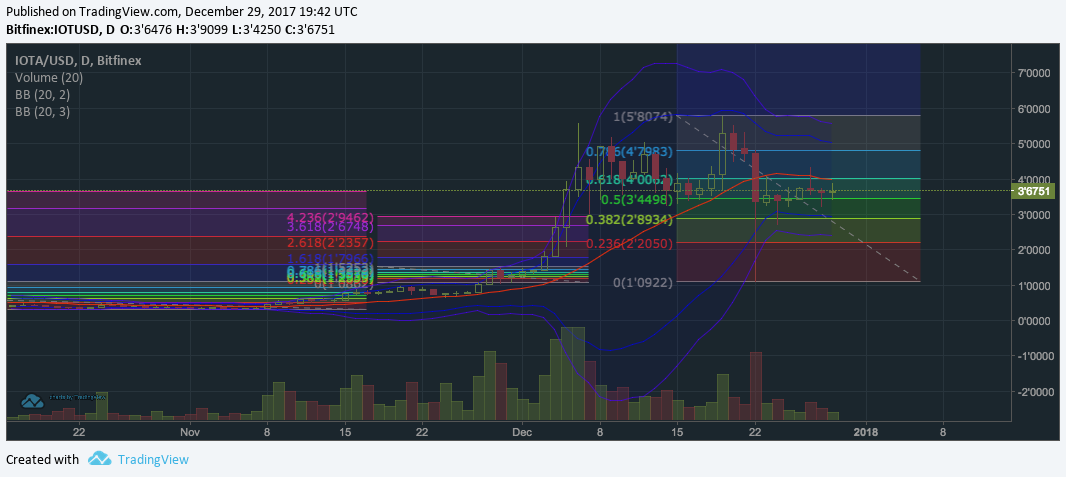
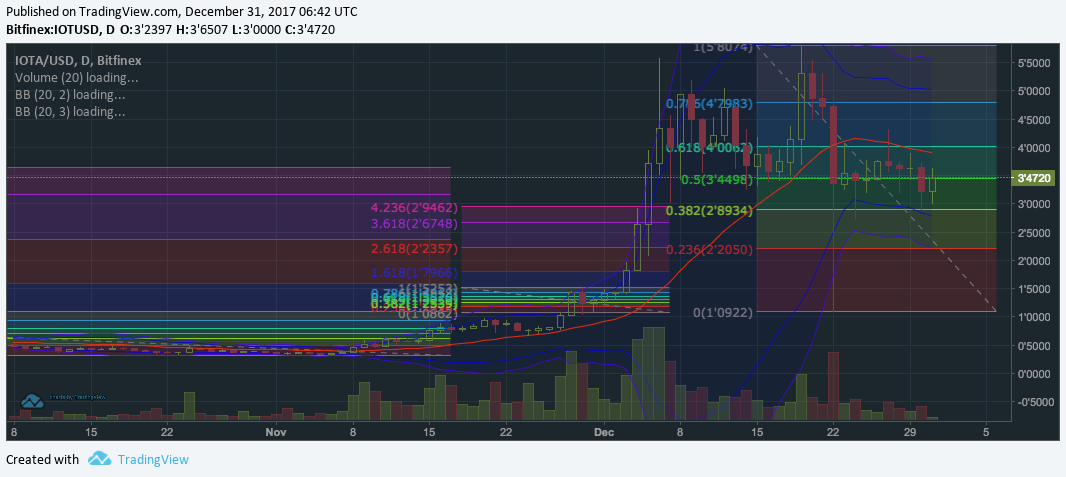
fib update

diff --git a/_fibs/daily.md b/_fibs/daily.md
@@ -1,7 +1,7 @@
 ---
 published: true
 date: 2017-12-27 10:36:00 +0100
-update: 2017-12-29 21:02:00 +0100
+update: 2017-12-31 07:02:00 +0100
 
 layout: fibs
 title: "Fib Levels for Crypto Markets"
@@ -17,14 +17,13 @@ name: "daily/"
 image: ["/strat/finexfibs.png"]
 
 dollars:
-- { market: "XRPUSD", chart: "/fibs/xrpusd.png", comment: "Ripple broke the ATH resistance nicely and currently sitting at the next fib resistance. It really should retrace a bit if this run is to be sustainable. A bull flag up here would be nice as well." }
-- { market: "ETHUSD", chart: "/fibs/ethusd.png", comment: "Still not making new highs but the short term downtrend line was broken. Bbands on 6H and 12H are looking more optimistic, on 1D the positive trend clearly hasn't been broken." }
-- { market: "EDOUSD", chart: "/fibs/edousd.png", comment: "Looking strong over the past days - Eidoo got the same kind of correction as BTC and many alts but swiftly made new highs. Currently sitting at ATH resistance. I am testing the Eidoo wallet for Android, there will be a post."}
-- { market: "IOTUSD", chart: "/fibs/iotusd.png", comment: "Compared to for instance the ETHUSD 1D chart, IOTA is looking weaker at the moment. According to this strawpol the majority of the crowd has been bullish on it for 2018: https://strawpoll.de/3e111xx - What we see now is a consolidation after a big move though. Not a good convincing place to pick sides for the short term." }
-- { market: "BTCUSD", chart: "/fibs/btcusd.png", comment: "Bitcoin is also consolidating and also weaker than ETHUSD. Currently sitting under an area of major resistance." }
+- { market: "XRPUSD", chart: "/fibs/xrpusd.png", comment: "Beautiful top wick below 2.618, currently about 20% down over the last 24 hours. On shorter timeframes currently bouncing off 1.618 but on small volume." }
+- { market: "ETHUSD", chart: "/fibs/ethusd.png", comment: "The positive trend line defined by moving average (bband center) was broken on 1D - daily of 30 Dec closed below. ETH is still holding the level for now but there is some downward pressure (sell volumes)." }
+- { market: "IOTUSD", chart: "/fibs/iotusd.png", comment: "Iota is keeping in the slight downtrend (consolidation), not much going on. The ratio (IOTBTC) is up thanks to bitcoin's action." }
+- { market: "BTCUSD", chart: "/fibs/btcusd.png", comment: "Bitcoin sold off in a big way, now sitting on its last support area and looking very heavy." }
 ratios:
-- { market: "ETHBTC", chart: "/fibs/ethbtc.png", comment: "In the ratio, ETH is attempting a breakout again. Now would be a good time to do it when BTC is just consolidating." }
-- { market: "EOSBTC", chart: "/fibs/eosbtc.png", comment: "Here's a madway chart without fibs. It's the BTC ratio of EOS, but: an unbroken positive trend and again, a good time to paint something resembing a cup and handle. Volume is miniscule at the moment." }
+- { market: "ETHBTC", chart: "/fibs/ethbtc.png", comment: "The ETH ratio is climbing but still not breaking out convincingly." }
+
 
 #- { market: "IOTUSD", chart: "/fibs/iotusd.png", comment: "dolor" }
 
@@ -35,6 +34,6 @@ This is a new section on AltcoinTrading that will have only USD and BTC charts f
 
 > Relevant news for today
 
-* [South Korean FUD has been largely cleared up, as usually](https://www.reddit.com/r/Bitcoin/comments/7mnmxo/south_koreas_bitcoin_regulation_is_highly/)
-* For 2018, [people are bullish on quite a few non-blockchain cryptocurrencies](https://strawpoll.de/3e111xx) - IOTA, RaiBlocks, Ripple
-* HackerNoon recently published a [comprehensive post about IOTA, Raiblocks and Radix](https://hackernoon.com/iota-vs-raiblocks-413679bb4c3e), if you are new to this type of cryptocurrencies.
+* It's [from zerohedge so grain of salt and all that](https://www.zerohedge.com/news/2017-12-29/stunning-look-inside-world-south-koreas-bitcoin-zombies), but it's an interesting article about how the crypto madness looks in South Korea: Everybody wants to be a crypto investors, young folks are making tons of money, students have "clubs" where they trade together (and make decisions together as opposed to the western world that engages in fights between subreddits). It's not difficult to see why these new traders lead the market and how it looks like.
+* [You can now vote to have RaiBlocks listed on Binance next month](https://www.reddit.com/r/RaiBlocks/comments/7n4k0c/xrb_officially_on_the_ballet_for_the_binance_coin/). If you don't have an account on Binance yet go ahead and use our [shill link](https://www.binance.com/?ref=15980293).
+* Happy new year.

diff --git a/_posts/2017-12-30-new-exchanges.md b/_posts/2017-12-30-new-exchanges.md
@@ -1,0 +1,38 @@
+---
+published: true
+
+guest: false
+
+date: 2017-12-30 00:12:00 +0100
+update: 2017-12-30 01:12:00 +0100
+
+
+author: https://reddit.com/u/KarlVonBahnhof
+author_name: KarlVonBahnhof
+
+
+comments: false
+
+stories: false
+note: 'User Guide'
+genres: Blog
+
+layout: forestry
+german: false
+tickers: false
+
+title: "New kids on the block: Smaller cryptocurrency exchanges good for trading"
+description: ""
+
+permalink: "/new-exchanges"
+image:
+- "/features/newcrypto.jpg"
+
+image_alt:
+- ""
+categories:
+- basics
+- coins
+chart: []
+tags: ["crypto-trading", "cryptocurrency-exchanges", "altcoin-trading"]
+---
